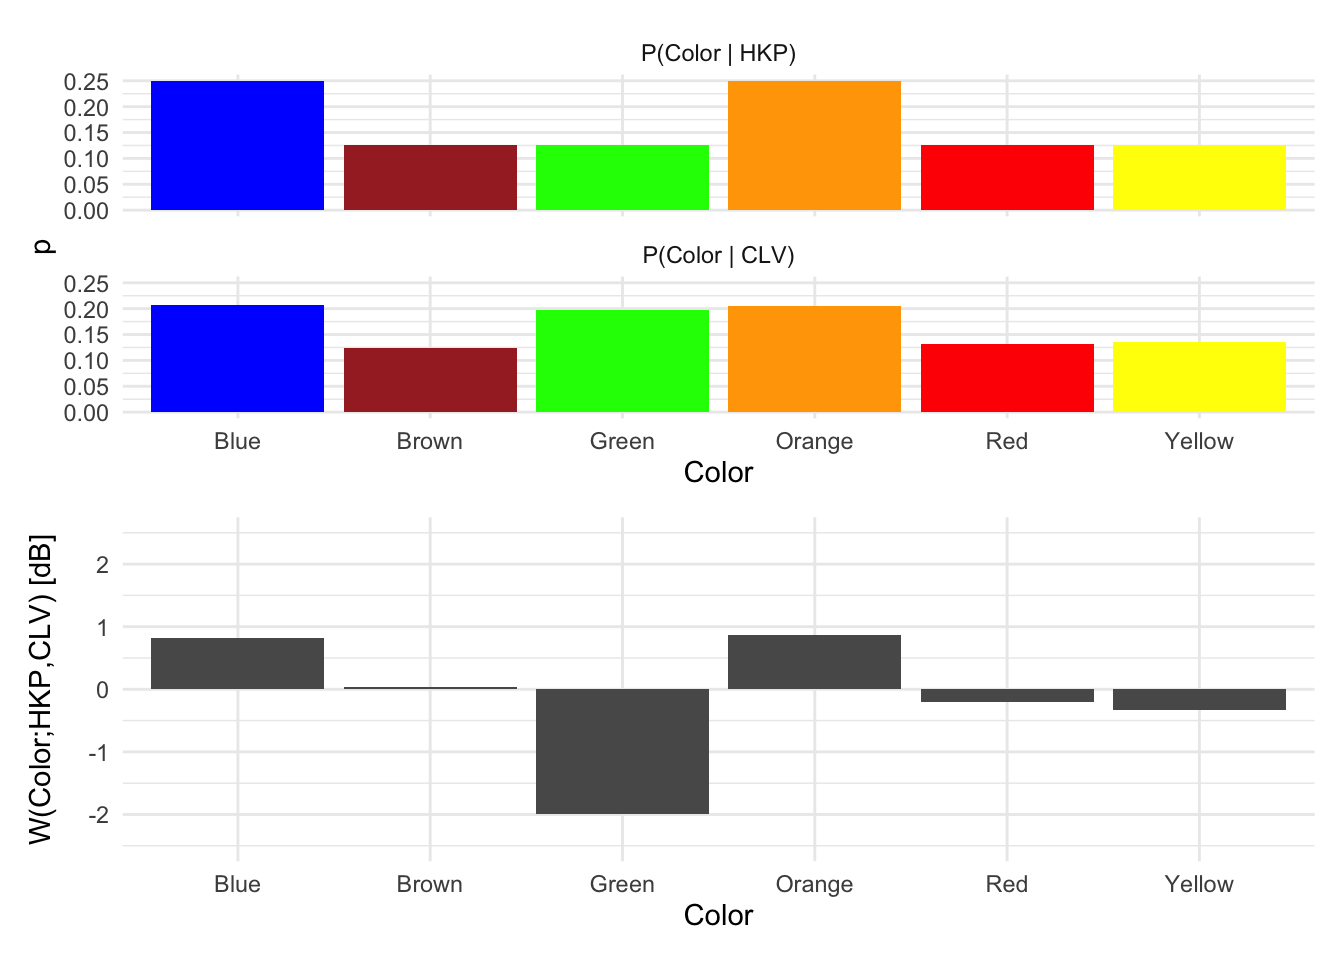
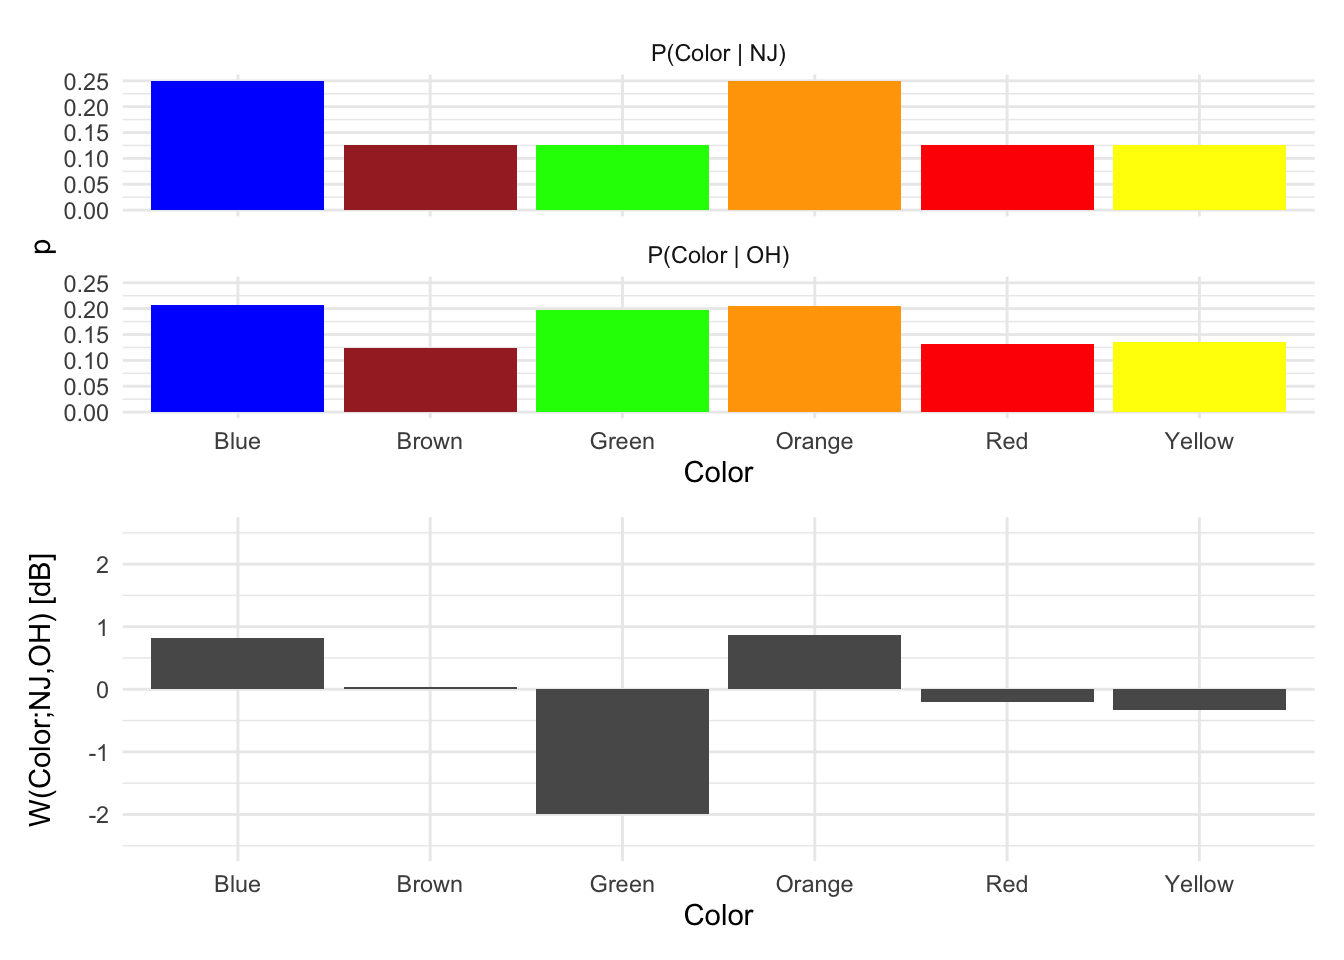
Major edits

Changed region(s): [[0.0, 0.5625, 0.0625, 0.875], [0.4688, 0.25, 0.5938, 0.2812], [0.4688, 0.0312, 0.5938, 0.0625]]

diff --git a/index.html b/index.html
@@ -205,7 +205,7 @@ window.Quarto = {
 <ul>
 <li><a href="https://en.wikipedia.org/wiki/Kullback%E2%80%93Leibler_divergence">relative entropy</a> (a.k.a. Kullback–Leibler (KL) divergence): measures a “distance” between two distributions</li>
 </ul>
-<p><span class="math display">\[\mathcal{S}[p;q] = \sum_x p(x) \cdot \log \frac{p(x)}{q(x)}\]</span></p>
+<p><span class="math display">\[H[p;q] = D_{\text{KL}}(q \|p) = \sum_x p(x) \cdot \log \frac{p(x)}{q(x)}\]</span></p>
 <ul>
 <li><a href="https://en.wikipedia.org/wiki/Entropy_(information_theory)">entropy</a>: measures the “complexity” of a distribution</li>
 </ul>
@@ -473,7 +473,7 @@ p(\theta\mid D_1,D_2) &amp; \propto p(D_2\mid\theta) \cdot p(\theta\mid D_1)
 <section id="example-mms-discrete-distributions" class="level3">
 <h3 class="anchored" data-anchor-id="example-mms-discrete-distributions">Example: M&amp;Ms (discrete distributions)</h3>
 <p><img src="images/clipboard-3433517152.png" class="img-fluid" width="300"></p>
-<p>Bags of M&amp;Ms produced at the Cleveland and Hackettstown factories differ in their color composition and are stamped with distinct codes: bags with <code>CLV</code> in their serial no. are from Cleveland, while bags with <code>HKP</code> in their serial no. are from Hackettstown.</p>
+<p>Bags of M&amp;Ms produced at the Cleveland and Hackettstown factories differ in their color composition and are stamped with distinct codes: bags with <code>CLV</code> in their serial no. are from Cleveland (OH), while bags with <code>HKP</code> in their serial no. are from Hackettstown (NJ).</p>
 <p>The color proportions vary by factory as follows:</p>
 <div class="cell">
 <div class="cell-output-display">
@@ -482,8 +482,8 @@ p(\theta\mid D_1,D_2) &amp; \propto p(D_2\mid\theta) \cdot p(\theta\mid D_1)
 <thead>
 <tr class="header">
 <th style="text-align: left;">Color</th>
-<th style="text-align: right;">P(Color | CLV)</th>
-<th style="text-align: right;">P(Color | HKP)</th>
+<th style="text-align: right;">P(Color | OH)</th>
+<th style="text-align: right;">P(Color | NJ)</th>
 </tr>
 </thead>
 <tbody>
@@ -523,7 +523,7 @@ p(\theta\mid D_1,D_2) &amp; \propto p(D_2\mid\theta) \cdot p(\theta\mid D_1)
 </div>
 </div>
 <p>&nbsp;</p>
-<p>If <code>CLV</code> is <span class="math inline">\(H_1\)</span> and <code>HKP</code> is <span class="math inline">\(H_2\)</span>, the weight of evidence in favor of <span class="math inline">\(CLV\)</span> vs.&nbsp;<span class="math inline">\(HKP\)</span> is (in decibans):</p>
+<p>If <code>OH</code> is <span class="math inline">\(H_1\)</span> and <code>NJ</code> is <span class="math inline">\(H_2\)</span>, the weight of evidence in favor of <span class="math inline">\(OH\)</span> vs.&nbsp;<span class="math inline">\(NJ\)</span> is (in decibans):</p>
 <div class="cell">
 <div class="cell-output-display">
 <div class="kable-table">
@@ -531,7 +531,7 @@ p(\theta\mid D_1,D_2) &amp; \propto p(D_2\mid\theta) \cdot p(\theta\mid D_1)
 <thead>
 <tr class="header">
 <th style="text-align: left;">Color</th>
-<th style="text-align: right;">W(Color;CLV,HKP) [dB]</th>
+<th style="text-align: right;">W(Color;OH,NJ) [dB]</th>
 </tr>
 </thead>
 <tbody>
@@ -574,7 +574,7 @@ p(\theta\mid D_1,D_2) &amp; \propto p(D_2\mid\theta) \cdot p(\theta\mid D_1)
 </div>
 </div>
 </div>
-<p>On the other hand, if <code>HKP</code> is <span class="math inline">\(H_1\)</span> and <code>CLV</code> is <span class="math inline">\(H_2\)</span>, the weight of evidence in favor of <span class="math inline">\(HKP\)</span> vs.&nbsp;<span class="math inline">\(CLV\)</span> is (in decibans):</p>
+<p>On the other hand, if <code>NJ</code> is <span class="math inline">\(H_1\)</span> and <code>OH</code> is <span class="math inline">\(H_2\)</span>, the weight of evidence in favor of <span class="math inline">\(NJ\)</span> vs.&nbsp;<span class="math inline">\(OH\)</span> is (in decibans):</p>
 <div class="cell">
 <div class="cell-output-display">
 <div class="kable-table">
@@ -582,7 +582,7 @@ p(\theta\mid D_1,D_2) &amp; \propto p(D_2\mid\theta) \cdot p(\theta\mid D_1)
 <thead>
 <tr class="header">
 <th style="text-align: left;">Color</th>
-<th style="text-align: right;">W(Color;HKP,CLV) [dB]</th>
+<th style="text-align: right;">W(Color;NJ,OH) [dB]</th>
 </tr>
 </thead>
 <tbody>
@@ -642,23 +642,17 @@ p(\theta\mid D_1,D_2) &amp; \propto p(D_2\mid\theta) \cdot p(\theta\mid D_1)
 </section>
 <section id="kl-divergence" class="level2">
 <h2 class="anchored" data-anchor-id="kl-divergence">KL divergence</h2>
-<p>Back to the M&amp;Ms example, the weight of evidence in favor of <span class="math inline">\(CLV\)</span> vs.&nbsp;<span class="math inline">\(HKP\)</span> is (in decibans):</p>
+<p>Back to the M&amp;Ms example, the weight of evidence in favor of <span class="math inline">\(OH\)</span> vs.&nbsp;<span class="math inline">\(NJ\)</span> is (in decibans):</p>
 <div class="cell">
 <div class="cell-output-display">
 <div class="kable-table">
 <table class="caption-top table table-sm table-striped small">
-<colgroup>
-<col style="width: 10%">
-<col style="width: 28%">
-<col style="width: 28%">
-<col style="width: 31%">
-</colgroup>
 <thead>
 <tr class="header">
 <th style="text-align: left;">Color</th>
-<th style="text-align: right;">P(Color | CLV)</th>
-<th style="text-align: right;">P(Color | HKP)</th>
-<th style="text-align: right;">W(Color;CLV,HKP) [dB]</th>
+<th style="text-align: right;">P(Color | OH)</th>
+<th style="text-align: right;">P(Color | NJ)</th>
+<th style="text-align: right;">W(Color;OH,NJ) [dB]</th>
 </tr>
 </thead>
 <tbody>
@@ -703,15 +697,15 @@ p(\theta\mid D_1,D_2) &amp; \propto p(D_2\mid\theta) \cdot p(\theta\mid D_1)
 </div>
 </div>
 </div>
-<p>The <strong>Kullback–Leibler divergence</strong> of <span class="math inline">\(CLV\)</span> vs.&nbsp;<span class="math inline">\(HKP\)</span> is the <strong>expected weight of evidence</strong> in favor of <span class="math inline">\(CLV\)</span> vs.&nbsp;<span class="math inline">\(HKP\)</span>, assuming the bag is from <span class="math inline">\(CLV\)</span>, i.e., <span class="math inline">\(P(\text{Color} \mid CLV)\)</span>:</p>
+<p>The <strong>Kullback–Leibler divergence</strong> of <span class="math inline">\(OH\)</span> vs.&nbsp;<span class="math inline">\(NJ\)</span> is the <strong>expected weight of evidence</strong> in favor of <span class="math inline">\(OH\)</span> vs.&nbsp;<span class="math inline">\(NJ\)</span>, assuming the bag is from <span class="math inline">\(OH\)</span>, i.e., <span class="math inline">\(P(\text{Color} \mid OH)\)</span>:</p>
 <div class="cell">
-<div class="code-copy-outer-scaffold"><div class="sourceCode cell-code" id="cb1"><pre class="sourceCode r code-with-copy"><code class="sourceCode r"><span id="cb1-1"><a href="#cb1-1" aria-hidden="true" tabindex="-1"></a>d <span class="sc">%&gt;%</span> <span class="fu">summarize</span>(<span class="st">`</span><span class="at">DKL(CLV;HKP) [dB]</span><span class="st">`</span> <span class="ot">=</span> <span class="fu">sum</span>(<span class="st">`</span><span class="at">P(Color | CLV)</span><span class="st">`</span><span class="sc">*</span><span class="st">`</span><span class="at">W(Color;CLV,HKP) [dB]</span><span class="st">`</span>))</span></code></pre></div><button title="Copy to Clipboard" class="code-copy-button"><i class="bi"></i></button></div>
+<div class="code-copy-outer-scaffold"><div class="sourceCode cell-code" id="cb1"><pre class="sourceCode r code-with-copy"><code class="sourceCode r"><span id="cb1-1"><a href="#cb1-1" aria-hidden="true" tabindex="-1"></a>d <span class="sc">%&gt;%</span> <span class="fu">summarize</span>(<span class="st">`</span><span class="at">DKL(OH;NJ) [dB]</span><span class="st">`</span> <span class="ot">=</span> <span class="fu">sum</span>(<span class="st">`</span><span class="at">P(Color | OH)</span><span class="st">`</span><span class="sc">*</span><span class="st">`</span><span class="at">W(Color;OH,NJ) [dB]</span><span class="st">`</span>))</span></code></pre></div><button title="Copy to Clipboard" class="code-copy-button"><i class="bi"></i></button></div>
 <div class="cell-output-display">
 <div class="kable-table">
 <table class="caption-top table table-sm table-striped small">
 <thead>
 <tr class="header">
-<th style="text-align: right;">DKL(CLV;HKP) [dB]</th>
+<th style="text-align: right;">DKL(OH;NJ) [dB]</th>
 </tr>
 </thead>
 <tbody>
@@ -723,23 +717,17 @@ p(\theta\mid D_1,D_2) &amp; \propto p(D_2\mid\theta) \cdot p(\theta\mid D_1)
 </div>
 </div>
 </div>
-<p>On the other hand, Back to the M&amp;Ms example, the weight of evidence in favor of <span class="math inline">\(HKP\)</span> vs.&nbsp;<span class="math inline">\(CLV\)</span> is (in decibans):</p>
+<p>On the other hand, Back to the M&amp;Ms example, the weight of evidence in favor of <span class="math inline">\(NJ\)</span> vs.&nbsp;<span class="math inline">\(OH\)</span> is (in decibans):</p>
 <div class="cell">
 <div class="cell-output-display">
 <div class="kable-table">
 <table class="caption-top table table-sm table-striped small">
-<colgroup>
-<col style="width: 10%">
-<col style="width: 28%">
-<col style="width: 28%">
-<col style="width: 31%">
-</colgroup>
 <thead>
 <tr class="header">
 <th style="text-align: left;">Color</th>
-<th style="text-align: right;">P(Color | CLV)</th>
-<th style="text-align: right;">P(Color | HKP)</th>
-<th style="text-align: right;">W(Color;HKP,CLV) [dB]</th>
+<th style="text-align: right;">P(Color | OH)</th>
+<th style="text-align: right;">P(Color | NJ)</th>
+<th style="text-align: right;">W(Color;NJ,OH) [dB]</th>
 </tr>
 </thead>
 <tbody>
@@ -784,15 +772,15 @@ p(\theta\mid D_1,D_2) &amp; \propto p(D_2\mid\theta) \cdot p(\theta\mid D_1)
 </div>
 </div>
 </div>
-<p>The <strong>Kullback–Leibler divergence</strong> of <span class="math inline">\(HKP\)</span> vs.&nbsp;<span class="math inline">\(CLV\)</span> is the <strong>expected weight of evidence</strong> in favor of <span class="math inline">\(HKP\)</span> vs.&nbsp;<span class="math inline">\(CLV\)</span>, assuming the bag is from <span class="math inline">\(HKP\)</span>, i.e., <span class="math inline">\(P(\text{Color} \mid HKP)\)</span>:</p>
+<p>The <strong>Kullback–Leibler divergence</strong> of <span class="math inline">\(NJ\)</span> vs.&nbsp;<span class="math inline">\(OH\)</span> is the <strong>expected weight of evidence</strong> in favor of <span class="math inline">\(NJ\)</span> vs.&nbsp;<span class="math inline">\(OH\)</span>, assuming the bag is from <span class="math inline">\(NJ\)</span>, i.e., <span class="math inline">\(P(\text{Color} \mid NJ)\)</span>:</p>
 <div class="cell">
-<div class="code-copy-outer-scaffold"><div class="sourceCode cell-code" id="cb2"><pre class="sourceCode r code-with-copy"><code class="sourceCode r"><span id="cb2-1"><a href="#cb2-1" aria-hidden="true" tabindex="-1"></a>d <span class="sc">%&gt;%</span> <span class="fu">summarize</span>(<span class="st">`</span><span class="at">DKL(HKP;CLV) [dB]</span><span class="st">`</span> <span class="ot">=</span> <span class="fu">sum</span>(<span class="st">`</span><span class="at">P(Color | HKP)</span><span class="st">`</span><span class="sc">*</span><span class="st">`</span><span class="at">W(Color;HKP,CLV) [dB]</span><span class="st">`</span>))</span></code></pre></div><button title="Copy to Clipboard" class="code-copy-button"><i class="bi"></i></button></div>
+<div class="code-copy-outer-scaffold"><div class="sourceCode cell-code" id="cb2"><pre class="sourceCode r code-with-copy"><code class="sourceCode r"><span id="cb2-1"><a href="#cb2-1" aria-hidden="true" tabindex="-1"></a>d <span class="sc">%&gt;%</span> <span class="fu">summarize</span>(<span class="st">`</span><span class="at">DKL(NJ;OH) [dB]</span><span class="st">`</span> <span class="ot">=</span> <span class="fu">sum</span>(<span class="st">`</span><span class="at">P(Color | NJ)</span><span class="st">`</span><span class="sc">*</span><span class="st">`</span><span class="at">W(Color;NJ,OH) [dB]</span><span class="st">`</span>))</span></code></pre></div><button title="Copy to Clipboard" class="code-copy-button"><i class="bi"></i></button></div>
 <div class="cell-output-display">
 <div class="kable-table">
 <table class="caption-top table table-sm table-striped small">
 <thead>
 <tr class="header">
-<th style="text-align: right;">DKL(HKP;CLV) [dB]</th>
+<th style="text-align: right;">DKL(NJ;OH) [dB]</th>
 </tr>
 </thead>
 <tbody>
@@ -804,8 +792,12 @@ p(\theta\mid D_1,D_2) &amp; \propto p(D_2\mid\theta) \cdot p(\theta\mid D_1)
 </div>
 </div>
 </div>
+<p><img src="images/clipboard-1304461914.png" class="img-fluid"></p>
+<p><img src="images/clipboard-553025974.png" class="img-fluid"></p>
 <p>In general,</p>
-<p><span class="math display">\[D_{KL}(p;q)
+<p><span class="math display">\[H(p;q)
+=
+D_{\text{KL}}(q \| p)
 =
 \mathbb{E}_{x \sim p(x)}
 \left[
@@ -851,7 +843,7 @@ Note
 </div>
 </div>
 <div class="callout-body-container callout-body">
-<p>The KL divergence quantifies the information gained—or equivalently, the change in beliefs—when a (prior) distribution <span class="math inline">\(q\)</span> is updated to a (posterior) distribution <span class="math inline">\(p\)</span>.</p>
+<p>The KL divergence <span class="math inline">\(H(p;q)\)</span> measures the expected information gain when updating your belief from a prior distribution <span class="math inline">\(p\)</span> to a posterior distribution <span class="math inline">\(q\)</span>.</p>
 </div>
 </div>
 <div class="callout callout-style-default callout-note callout-titled">
@@ -867,19 +859,6 @@ Note
 <p>The KL divergence is ≥ 0.</p>
 </div>
 </div>
-<p>The KL divergence can also be decomposed into entropy and cross-entropy:</p>
-<p><span class="math display">\[\mathcal{S}[p;q]
-=
-\sum_x p(x) \cdot \log \frac{p(x)}{q(x)}
-=
-\sum_x p(x) \cdot [\log p(x) - \log q(x)]
-=
-\sum_x p(x) \cdot \log p(x) - \sum_x p(x) \cdot \log q(x)\]</span></p>
-<p>Entropy:</p>
-<p><span class="math display">\[H[p] = -\sum_x p(x) \log p(x)\]</span> Cross-entropy:</p>
-<p><span class="math display">\[H[p; q] = -\sum_x p(x) \log q(x)\]</span></p>
-<p>Therefore,</p>
-<p><span class="math display">\[\mathcal{S}[p;q] = H[p;q] - H[p]\]</span> KL divergence is simply the extra surprise/cost incurred by using distribution <span class="math inline">\(q\)</span> to approximate distribution <span class="math inline">\(p\)</span>.</p>
 </section>
 <section id="weight-of-evidence-and-surprise" class="level2">
 <h2 class="anchored" data-anchor-id="weight-of-evidence-and-surprise">Weight of evidence and surprise</h2>
